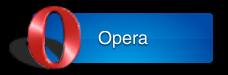
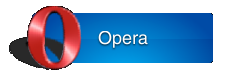
Change the background of the browser buttons from blavk to white and style the ie message.

diff --git a/templates/ie.html b/templates/ie.html
@@ -11,52 +11,27 @@
 {% block tag_body %}
 
     <div  class="ie-message">
-        <ul>
-            <li class="qa">
-                <h1>Oops! You seem to be using Internet Explorer 6 or earlier. Please upgrade.</h1>
-                <p>Your browser is almost a decade old or even older!</p>
+        <h1>Oops! You seem to be using Internet Explorer 6 or earlier. Please upgrade.</h1>
+        <p>Your browser is almost a decade old or even older!</p>
 
-                <p>Our Website uses features not available in Internet Explorer 6 or earlier. We suggest you use any of these better browsers: <a href="http://getfirefox.com">Firefox</a>, <a href="http://www.apple.com/safari/">Safari</a>, <a href="http://www.opera.com">Opera</a>, and <a href="http://www.google.com/chrome">Chrome</a> to improve your Web browsing experience.  Alternatively, you can install <a href="http://www.microsoft.com/windows/internet-explorer/default.aspx">Internet Explorer 8</a>.</p>
+        <p>Our Website uses features not available in Internet Explorer 6 or earlier. We suggest you use any of these better browsers: <a href="http://getfirefox.com">Firefox</a>, <a href="http://www.apple.com/safari/">Safari</a>, <a href="http://www.opera.com">Opera</a>, and <a href="http://www.google.com/chrome">Chrome</a> to improve your Web browsing experience.  Alternatively, you can install <a href="http://www.microsoft.com/windows/internet-explorer/default.aspx">Internet Explorer 8</a>.</p>
 
-                <p>You have two options:</p>
-                <ul>
-                  <li><a href="http://code.google.com/chrome/chromeframe/">Install the Google Chrome Frame plugin</a> for your Internet Explorer browser.</li>
-                  <li>Download a new different browser or upgrade your browser. </li>
-                </ul>
+        <p>You have two options:</p>
+        <ol>
+          <li><a href="http://code.google.com/chrome/chromeframe/" id="highlight">Install the Google Chrome Frame plugin</a> for your Internet Explorer browser.</li>
+          <li>Download a new different browser or upgrade your browser. </li>
+        </ol>
 
-                <p>Click any of these icons to download a better browser now:</p>
+        <p>Click any of these icons to download a better browser now:</p>
 
-                <ul class="horizontal">
-                    <li><a href="http://getfirefox.com" target="_blank" alt="Firefox"><img src="{{ MEDIA_URL }}image/browser/get_firefox.png" /></a></li>
-                    <li><a href="http://www.google.com/chrome" target="_blank" alt="Chrome"><img src="{{ MEDIA_URL }}image/browser/get_chrome.png" /></a></li>
-                    <li><a href="http://www.apple.com/safari/download" target="_blank" alt="Safari"><img src="{{ MEDIA_URL }}image/browser/get_safari.png" /></a></li>
-                    <li><a href="http://www.opera.com" target="_blank" alt="Opera"><img src="{{ MEDIA_URL }}image/browser/get_opera.png" /></a></li>
-                    <li><a href="http://www.microsoft.com/windows/internet-explorer/default.aspx" target="_blank" alt="Internet Explorer"><img src="{{ MEDIA_URL }}image/browser/get_ie.png" /></a></li>
-                </ul>
-                <p>On a broadband connection, it should take roughly 3-5 minutes to upgrade to a fresh new browser.</p>
-            </li>
-            <li class="qa">
-                <h1>If you are a corporate user...</h1>
-                <p>Legacy systems that work only using Internet Explorer 6 still keep the Web from growing and evolving further.  Major companies like Google have stopped supporting Internet Explorer 6 or earlier.</p>
-                <p>Many companies have policies that do not allow people to install new software on their computers.  We think this is very short-sighted of their administrators.  You can use a <a target="_blank" href="http://portableapps.com/apps/internet/firefox_portable"><strong>portable</strong> version of Firefox</a> which does not require any installation and can be run directly without administrative privileges.</p>
-                <p>Many times administrators refuse to install new software into your computer simply because it's more work for them!  They'll give you all kinds of "technical" excuses why you shouldn't install another browser.  Don't let that happen to you.  Please try a different browser before forming a judgement.</p>
-            </li>
-            <li class="qa">
-                <h1>I am not allowed to download Windows executables (.exe).</h1>
-                <p>Well, then you are simply out of luck.  You can try convincing your management or system administrators to upgrade your systems because sooner or later they will need to anyway with newer Web technologies coming in.</p>
-            </li>
-            <li class="qa">
-                <h1>You don't lose Internet Explorer or legacy Websites by using another browser.</h1>
-                <p>Just have your administrator install a newer browser alongside Internet Explorer 6 and use Internet Explorer 6 only for those legacy Web applications.  It's that simple.</p>
-            </li>
-            <li class="qa">
-                <h1>My administrator is not convinced.</h1>
-                <p>Try asserting to your administrator: "Did you know Internet Explorer 6 is the most insecure browser on the planet?" and then watch his face go red.  They might tell you something along the lines of "If your computer gets infected with a virus, will you or will the Website maker be responsible for it?"  We'll tell you what.  Ask him whether Mac OS X or Linux has viruses.  Again, watch his face go red.</p>
-                <p>Fun? An antivirus on Windows is like an inflatable on a sinking boat.  All it needs is a pointy poke. We hope your administrator has a sense of humor.</p>
-                <p>Please spread the word.</p>
-            </li>
-
+        <ul class="horizontal">
+            <li><a href="http://getfirefox.com" target="_blank" alt="Firefox"><img src="{{ MEDIA_URL }}image/browser/get_firefox.png" /></a></li>
+            <li><a href="http://www.google.com/chrome" target="_blank" alt="Chrome"><img src="{{ MEDIA_URL }}image/browser/get_chrome.png" /></a></li>
+            <li><a href="http://www.apple.com/safari/download" target="_blank" alt="Safari"><img src="{{ MEDIA_URL }}image/browser/get_safari.png" /></a></li>
+            <li><a href="http://www.opera.com" target="_blank" alt="Opera"><img src="{{ MEDIA_URL }}image/browser/get_opera.png" /></a></li>
+            <li><a href="http://www.microsoft.com/windows/internet-explorer/default.aspx" target="_blank" alt="Internet Explorer"><img src="{{ MEDIA_URL }}image/browser/get_ie.png" /></a></li>
         </ul>
+        <p>On a broadband connection, it should take roughly 3-5 minutes to upgrade to a fresh new browser.</p>
     </div>
 {% endblock %}
 

diff --git a/media/sass/ie.sass b/media/sass/ie.sass
@@ -1,11 +1,16 @@
 // Internet Explorer specific styles.
+a
+    border: 0
+    text-decoration: none
+a img
+    border: 0
 
 .ie-message
     padding: 40px
 
 .ie-message h1
     font-family: Georgia
-    font-size: 1.4em
+    font-size: 1.8em
     font-weight: normal
     line-height: 1.4
     letter-spacing: -0.02em
@@ -13,7 +18,7 @@
 
 .ie-message p
     line-height: 1.4
-    font-size: 0.9em
+    font-size: 1em
     clear: both
     color: #444
     margin-top: 5px
@@ -26,11 +31,16 @@
     float: left
     width: 400px
 
-.ie-message ul li
+.ie-message ul.horizontal li
     float: left
-a
-    border: 0
-    text-decoration: none
-a img
-    border: 0
+    list-style: none
+    
+.ie-message ol li
+    margin-top: 10px
+
+#highlight
+    background-color: #ffffe1
+    padding: 4px
+    color: green
+
 

diff --git a/media/css/ie.css b/media/css/ie.css
@@ -1,10 +1,19 @@
+a {
+  border: 0;
+  text-decoration: none;
+}
+
+a img {
+  border: 0;
+}
+
 .ie-message {
   padding: 40px;
 }
 
 .ie-message h1 {
   font-family: Georgia;
-  font-size: 1.4em;
+  font-size: 1.8em;
   font-weight: normal;
   line-height: 1.4;
   letter-spacing: -0.02em;
@@ -13,7 +22,7 @@
 
 .ie-message p {
   line-height: 1.4;
-  font-size: 0.9em;
+  font-size: 1em;
   clear: both;
   color: #444;
   margin-top: 5px;
@@ -29,15 +38,17 @@
   width: 400px;
 }
 
-.ie-message ul li {
+.ie-message ul.horizontal li {
   float: left;
+  list-style: none;
 }
 
-a {
-  border: 0;
-  text-decoration: none;
+.ie-message ol li {
+  margin-top: 10px;
 }
 
-a img {
-  border: 0;
+#highlight {
+  background-color: #ffffe1;
+  padding: 4px;
+  color: green;
 }
